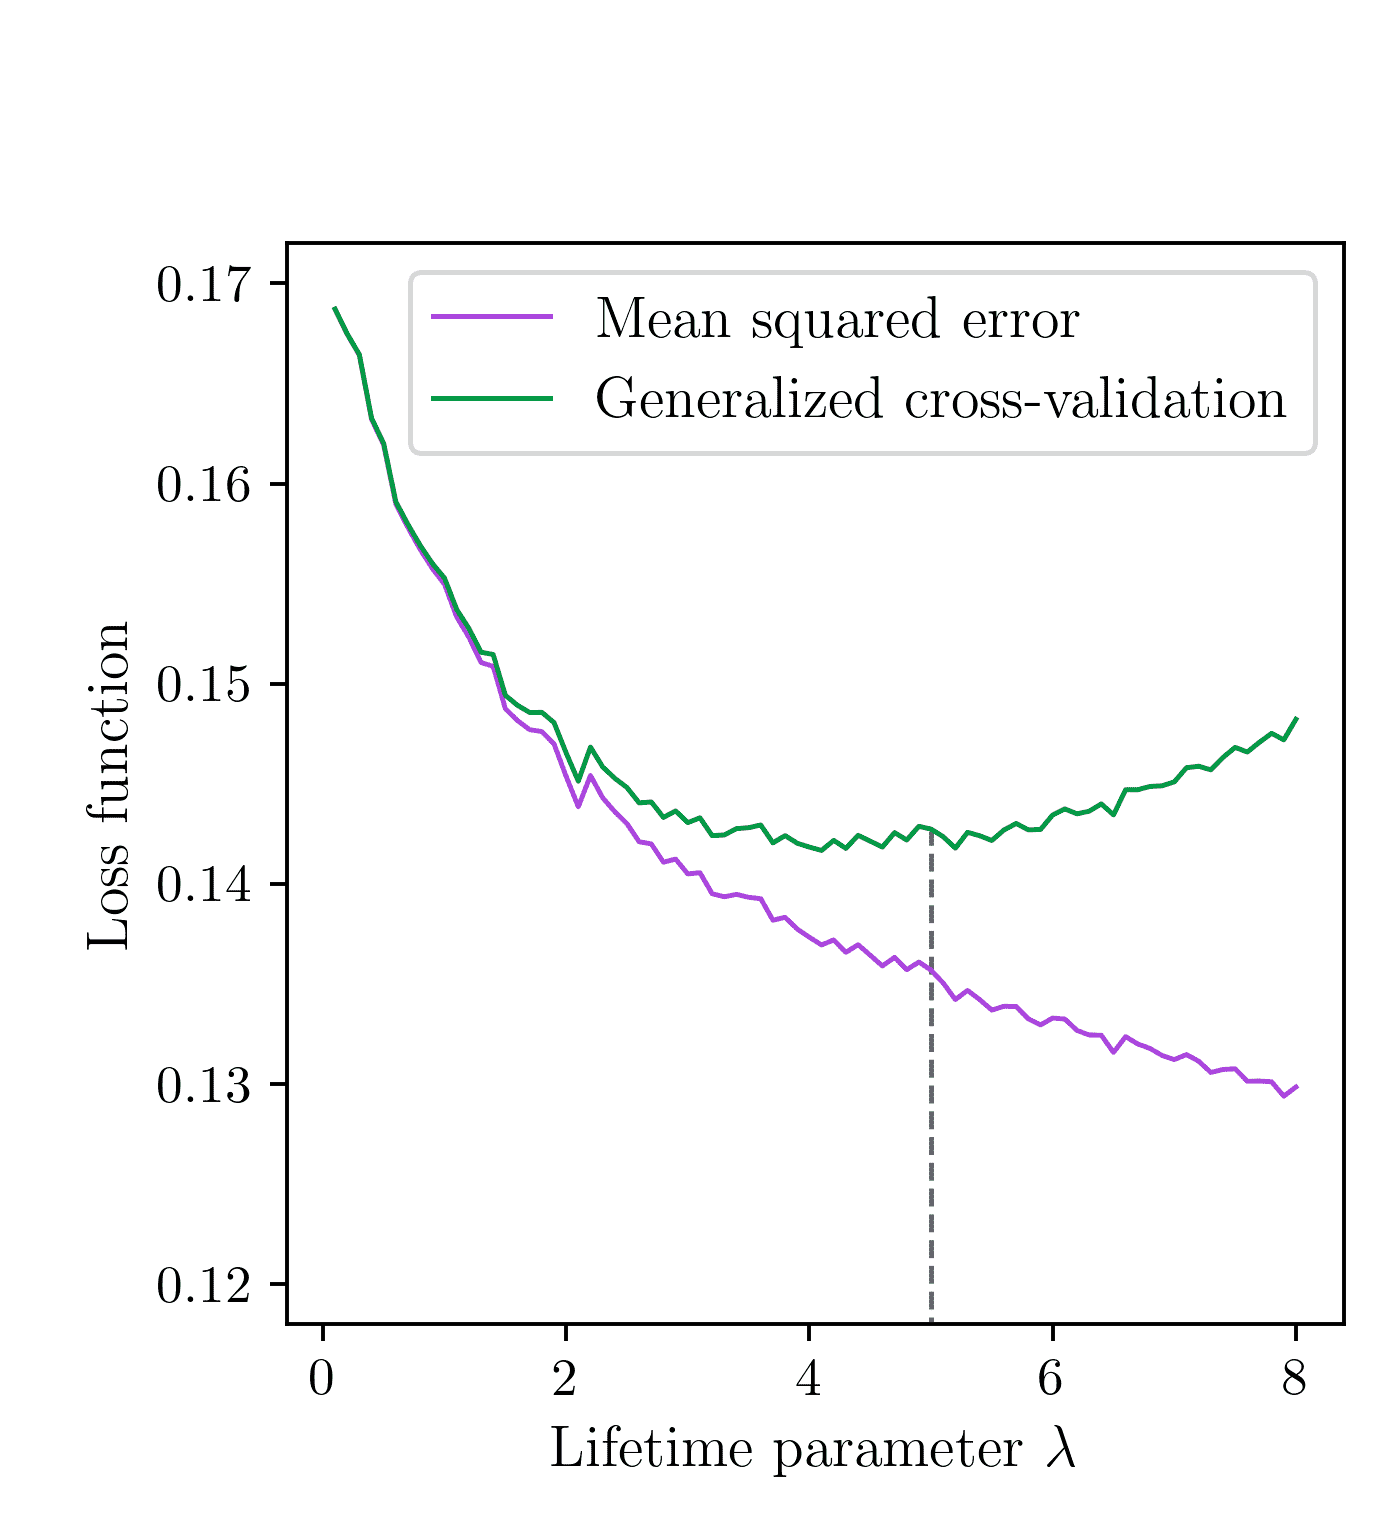
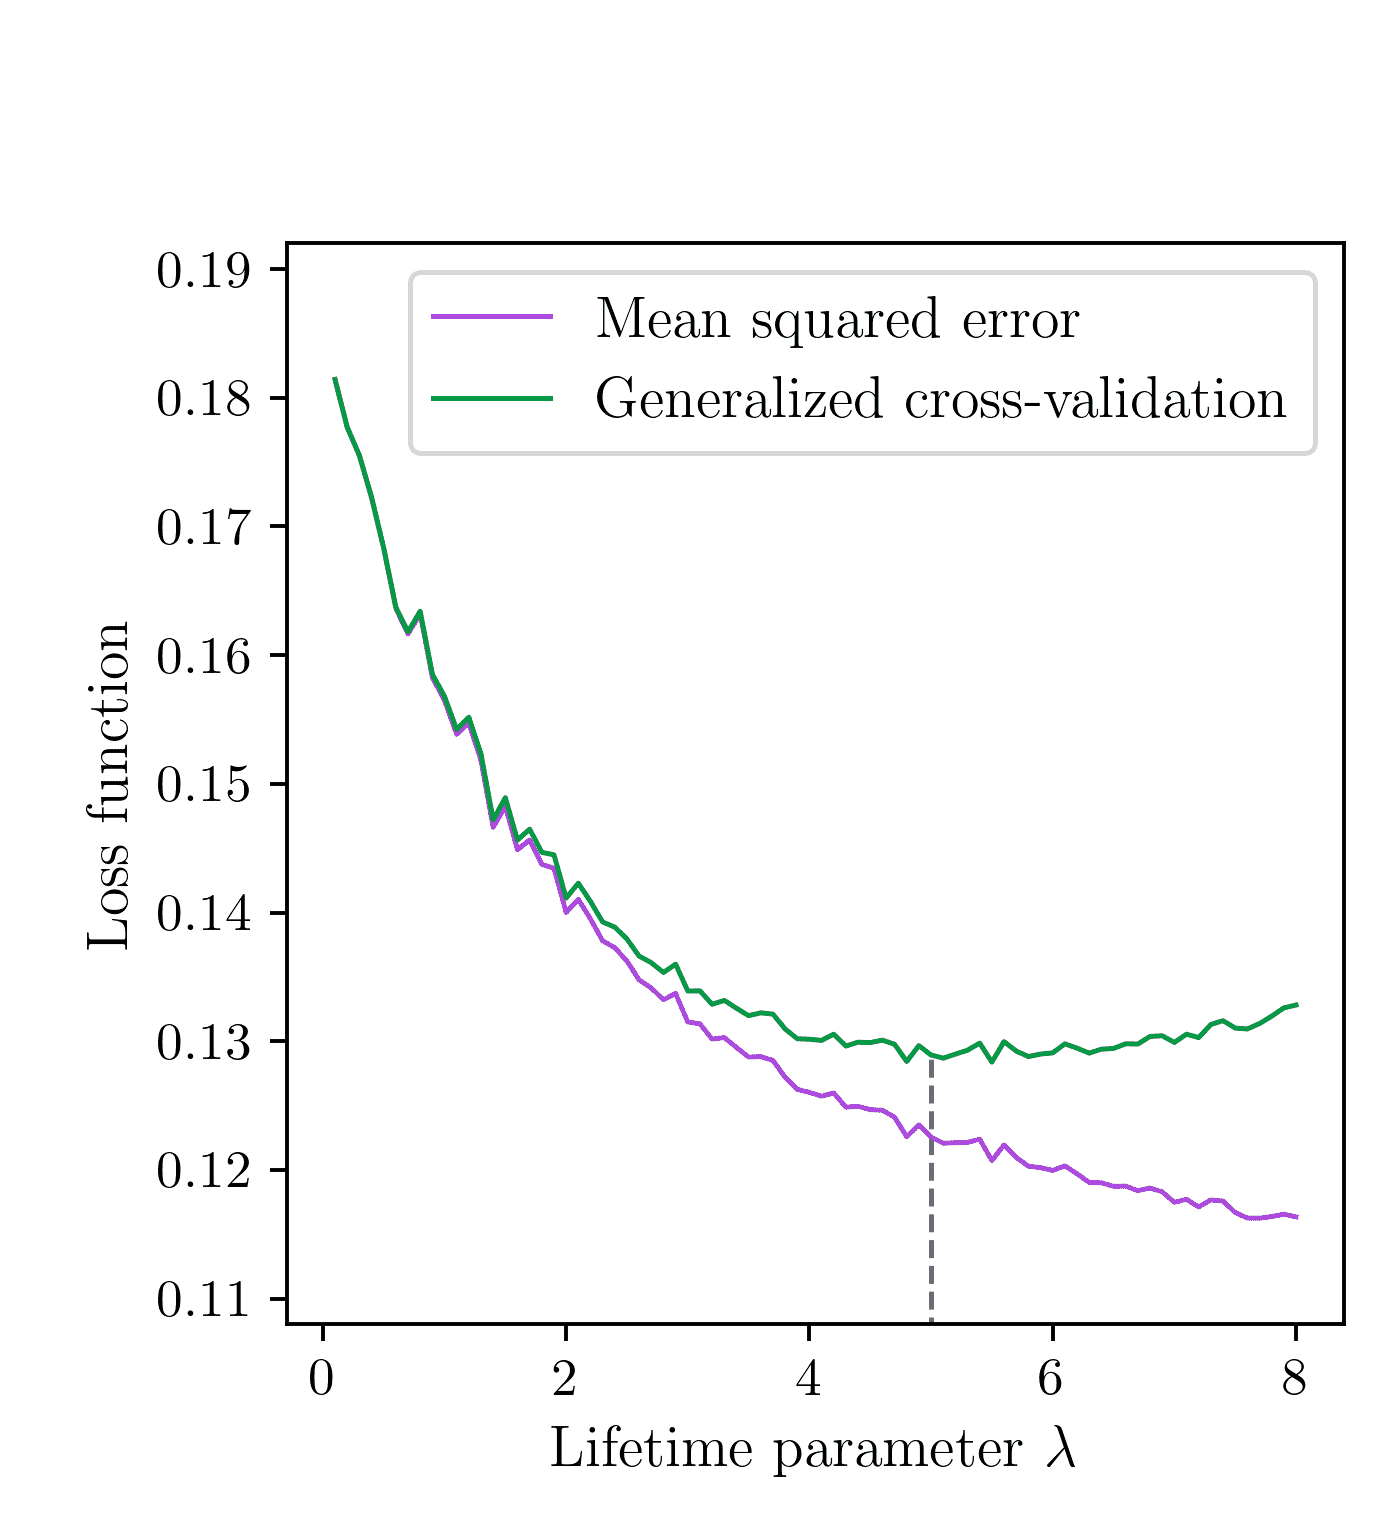
new gcv plot

diff --git a/mondrian.tex b/mondrian.tex
@@ -1671,7 +1671,30 @@ practice very difficult to estimate statistically. As such we recommend
 removing only the first one or two bias terms, taking $J \in \{0,1,2\}$ to
 avoid overly inflating the variance of the estimator.
 
-\begin{figure}[b!]
+\subsection{Selecting the debiasing coefficients}%
+
+As mentioned in Section~\ref{sec:debiased}, we take $a_r$ to be a fixed
+geometric or arithmetic sequence. For example, we could set
+$a_r = (1+\gamma)^r$ or $a_r = 1 + \gamma r$ for some $\gamma > 0$. We suggest
+for concreteness taking $a_r = 1.05^r$.
+
+\section{Illustrative example: weather forecasting}%
+\label{sec:mondrian_weather}
+
+To demonstrate our methodology for estimation and inference with Mondrian random
+forests, we consider a simple application
+to a weather forecasting problem. We emphasize that the main aim of this
+section is to provide intuition and understanding for how a Mondrian random
+forest may be used in practice, and we refrain from an in-depth analysis of the
+specific results obtained. Indeed, our core assumption of i.i.d.\ data is almost
+certainly
+violated when treating weather data, due to the inherent time-series structure
+of the sequential observations.
+Nonetheless, we use data from the \cite{bomgovau}, containing daily weather
+information from the years 2007--2017, at 49 different
+locations across Australia, with a total of $n = 125\,927$ samples.
+
+\begin{figure}[t]
   \centering
   \begin{subfigure}{0.49\textwidth}
     \centering
@@ -1690,30 +1713,35 @@ avoid overly inflating the variance of the estimator.
   \label{fig:weather_data}
 \end{figure}
 
-\subsection{Selecting the debiasing coefficients}%
+We consider the classification problem of predicting whether or not it will
+rain on the following day using two covariates: the percentage relative
+humidity, and the pressure in mbar, both at 3pm on the current day. For the
+purpose of framing this as a nonparametric regression problem, we consider
+estimating the
+probability of rain as the regression function by setting $Y_i = 1$ if there is
+rain on the following day and $Y_i = 0$ otherwise. Outliers with pressure less
+than 985\,mbar or more than 1040\,mbar were removed to justify the assertion in
+Assumption~\ref{ass:mondrian_data} that the density of the covariates should be
+bounded away from zero, and the features were linearly scaled
+to provide normalized samples $(X_i, Y_i) \in [0, 1]^2 \times \{0, 1\}$.
+We fit a Mondrian random forest to the data as defined in
+Section~\ref{sec:mondrian_forests}, selecting the
+lifetime parameter with the generalized cross-validation (GCV) method detailed
+in Section~\ref{sec:lifetime_selection}. Figure~\ref{fig:weather_data} plots
+the data, using colors to indicate the response values, and illustrates how a
+single Mondrian tree is fitted by sampling from an independent Mondrian process
+and then computing local averages
+(equivalent to response proportions in this special setting with binary outcomes)
+within each cell. The general pattern of rain
+being predicted by high humidity and low pressure is apparent, with the
+preliminary tree
+estimator taking the form of a step function on axis-aligned rectangles.
+This illustrates
+the first-order bias of Mondrian random trees discussed in
+Section~\ref{sec:mondrian_clt}, with the piecewise constant estimator providing
+a poor approximation for the smooth true regression function.
 
-As mentioned in Section~\ref{sec:debiased}, we take $a_r$ to be a fixed
-geometric or arithmetic sequence. For example, we could set
-$a_r = (1+\gamma)^r$ or $a_r = 1 + \gamma r$ for some $\gamma > 0$. We suggest
-for concreteness taking $a_r = 1.05^r$.
-
-\section{Illustrative example: weather forecasting}%
-\label{sec:mondrian_weather}
-
-To demonstrate our methodology for estimation and inference with Mondrian random
-forests, we consider a simple application
-to a weather forecasting problem. We emphasize that the main aim of this
-section is to provide intuition and understanding for how a Mondrian random
-forest may be used in practice, and we refrain from an in-depth analysis of the
-results obtained. Indeed, our core assumption of i.i.d.\ data is almost
-certainly
-violated when treating weather data, due to the inherent time-series structure
-of the sequential observations.
-Nonetheless, we use data from the \cite{bomgovau}, containing daily weather
-information from the years 2007--2017, at 49 different
-locations across Australia, with a total of $n = 125\,927$ samples.
-
-\begin{figure}[b!]
+\begin{figure}[t]
   \centering
   \begin{subfigure}{0.49\textwidth}
     \centering
@@ -1731,43 +1759,19 @@ locations across Australia, with a total of $n = 125\,927$ samples.
   \label{fig:weather_forest}
 \end{figure}
 
-We consider the classification problem of predicting whether or not it will
-rain on the following day using two covariates: the percentage relative
-humidity and pressure in mbar at 3pm on the current day. For the purpose of
-framing this as a nonparametric regression problem, we consider estimating the
-probability of rain as the regression function by setting $Y_i = 1$ if there is
-rain on the following day and $Y_i = 0$ otherwise. Outliers with pressure less
-than 985\,mbar or more than 1040\,mbar were removed to justify the assertion in
-Assumption~\ref{ass:mondrian_data} that the density of the covariates should be
-bounded away from zero, and the features are linearly scaled
-to provide normalized samples $(X_i, Y_i) \in [0, 1]^2 \times \{0, 1\}$.
-We fit a Mondrian random forest to the data as defined in
-Section~\ref{sec:mondrian_forests}, selecting the
-lifetime parameter with the generalized cross-validation (GCV) method detailed
-in Section~\ref{sec:lifetime_selection}. Figure~\ref{fig:weather_data} plots
-the data, using colors to indicate the response values, and illustrates how a
-single Mondrian tree is fitted by sampling from an independent Mondrian process
-and computing local averages
-(equivalent to response proportions with binary outcomes)
-within each cell. The general pattern of rain
-being predicted by high humidity and low pressure is apparent, with the tree
-estimator taking the form of a step function on axis-aligned rectangles.
-This illustrates
-the first-order bias of Mondrian random trees, as discussed in
-Section~\ref{sec:mondrian_clt}, with the piecewise constant estimator providing
-a poor approximation for the smooth true regression function.
-
-Figure~\ref{fig:weather_forest} then
+Figure~\ref{fig:weather_forest}
 demonstrates the effect of increasing the forest size from $B=2$ to $B=40$.
 As more trees are included in the Mondrian random forest,
 the regression estimate $\hat \mu(x)$ becomes smoother and therefore also
 enjoys improved bias properties as shown in
 Theorem~\ref{thm:mondrian_bias}, assuming a correct model specification.
-We also identify three design points at which to conduct inference
-by constructing confidence intervals; see Table~\ref{tab:weather_ci}
-for the numerical results.
+We also choose three specific design points in the covariate space,
+namely (20\%, 1020\,mbar), (70\%, 1000\,mbar), and (80\%, 990\,mbar),
+at which to conduct inference
+by constructing confidence intervals. See Table~\ref{tab:weather_ci}
+for the results.
 
-\begin{figure}[b!]
+\begin{figure}[t]
   \centering
   \begin{subfigure}{0.49\textwidth}
     \centering
@@ -1786,24 +1790,26 @@ for the numerical results.
 
 In Figure~\ref{fig:weather_gcv} we show the mean squared error and GCV scores
 computed using \eqref{eq:gcv} with $B=400$ trees
-for each lifetime parameter $\lambda$. As
+for several candidate lifetime parameters $\lambda$. As
 expected, the mean squared error decreases monotonically
 as $\lambda$ increases and the model
 overfits, but the GCV score is minimized at a value which appropriately
-balances the bias and variance. We then fit a debiased Mondrian forest
+balances the bias and variance; we take $\lambda = 5$.
+We then fit a debiased Mondrian forest
 with bias correction order $J = 1$ as described in
 Section~\ref{sec:debiased}, using $B=20$ trees at each debiasing level
-for a total of $40$ trees.
+$r \in \{0, 1\}$ for a total of $40$ trees.
 We continue to use the same lifetime parameter
-$\lambda$ selected through GCV without debiasing, following the approach
-recommended in Section~\ref{sec:lifetime_selection}.
+$\lambda = 5$ selected through GCV without debiasing, following the approach
+recommended in Section~\ref{sec:lifetime_selection} to ensure valid inference
+through negligible bias.
 The resulting debiased Mondrian random forest estimate is noticeably
 less smooth than the version without bias correction, as expected due to
-both the inflated variance resulting from the debiasing procedure
+both the inflated variance resulting from the debiasing procedure,
 and the undersmoothing enacted by the lifetime selection method.
 
 Table~\ref{tab:weather_ci} presents numerical results for estimation and
-inference at these specified design points. We first give the outcomes without
+inference at the three specified design points. We first give the outcomes without
 debiasing, using a Mondrian random forest with $B = 400$ trees and $\lambda = 5$
 selected by GCV. We then show the results with a first-order ($J=1$) debiased
 Mondrian random forest using $B = 200$ (so again a total of $400$ trees)
@@ -1811,11 +1817,13 @@ and the same
 value of $\lambda = 5$. The predicted chance of rain $\hat\mu(x)$ is found to
 vary substantially across different covariate values, and the resulting
 confidence intervals (CI) are generally narrow due to the large sample size and
-moderate lifetime parameter. Th forest with debiasing exhibits more extreme
+moderate lifetime parameter. The forest with debiasing exhibits more extreme
 predictions away from $50\%$ and wider confidence intervals in general, in line
 with the illustration in Figure~\ref{fig:weather_gcv}.
-
-\TODO{check this whole section carefully}
+Interestingly, the confidence intervals for the non-debiased and debiased
+estimators do not intersect, indicating that the original estimator
+is severely biased, and providing further justification for our
+modified debiased random forest estimator.
 
 \vspace{4mm}
 \begin{table}[ht]
@@ -1825,8 +1833,8 @@ with the illustration in Figure~\ref{fig:weather_gcv}.
     \multirow{2}{*}{Point}
     & \multirow{2}{*}{Humidity}
     & \multirow{2}{*}{Pressure}
-    & \multicolumn{2}{|c|}{Without debiasing}
-    & \multicolumn{2}{|c|}{With debiasing} \\
+    & \multicolumn{2}{|c|}{No debiasing, $J=0$}
+    & \multicolumn{2}{|c|}{Debiasing, $J=1$} \\
     \cline{4-7}
     & &
     & $\hat\mu(x)$ & 95\% CI
